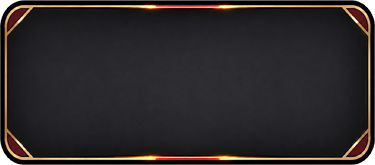
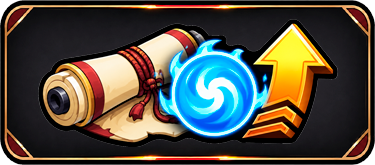
New assets

diff --git a/docs/ASSET_FOLDERS.md b/docs/ASSET_FOLDERS.md
@@ -338,20 +338,6 @@ Only BossTimerLabel is affected. Other ProgressInfoPanel labels use the standard
 
 ---
 
-## Bottom bar background
-
-Path: `assets/images/ui/bottom_bar/background.png`
-
-Recommended size: **720×104**
-
-Purpose: Decorative background for the BottomBar area. Rendered by `BackgroundImageHolder` (a `ColorRect` + `ImageSlot`) placed behind the tab buttons in `ClickerScreen.tscn`.
-
-Rules:
-- Missing file falls back to transparent — no crash.
-- `mouse_filter = IGNORE` — does not block button input.
-
----
-
 ## Bottom tab button images
 
 Path: `assets/images/ui/bottom_bar/tabs/<tab_name>/default.png` and `active.png`
@@ -366,14 +352,14 @@ Tab names: `upgrades`, `partners`, `settlement`, `prestige`, `shop`
 Recommended size: **125×55 px** per tab button.
 
 Rules:
+- BottomBar has no background texture — only tab button textures are used.
 - Button images may include baked-in text/art; Godot no longer draws native button text on the bottom bar.
-- Missing files fall back to transparent — no crash.
+- Missing files fall back to white — no crash.
 - Switching tabs updates images immediately via `_update_bottom_bar_view()`.
 - Closing a sheet returns all tabs to `default.png`.
 
 Required folders:
 ```
-assets/images/ui/bottom_bar/
 assets/images/ui/bottom_bar/tabs/upgrades/
 assets/images/ui/bottom_bar/tabs/partners/
 assets/images/ui/bottom_bar/tabs/settlement/

diff --git a/docs/ASSET_MAP.md b/docs/ASSET_MAP.md
@@ -249,14 +249,6 @@ Rules:
 
 ---
 
-## Bottom bar background
-
-Asset key: `ui.bottom_bar.background`
-Path: `assets/images/ui/bottom_bar/background.png`
-Recommended size: **720×104**
-
-Purpose: Decorative background behind the five bottom tab buttons. Rendered by `BackgroundImageHolder` (`ImageSlot`) in `ClickerScreen.tscn`, pinned to the bottom with `offset_top = -104`. Missing file falls back to transparent — no crash.
-
 ## Bottom tab buttons
 
 Each tab has two image states: `default` and `active`.
@@ -274,7 +266,7 @@ Each tab has two image states: `default` and `active`.
 | `ui.bottom_tab.shop.default` | `assets/images/ui/bottom_bar/tabs/shop/default.png` |
 | `ui.bottom_tab.shop.active` | `assets/images/ui/bottom_bar/tabs/shop/active.png` |
 
-Recommended tab image size: **125×55 px**. Button nodes remain (`Button` type) so pressed signals continue to work. `ImageHolder` (`ImageSlot`) is visual only — mouse input passes through to the button. Godot no longer draws native text on these buttons.
+Recommended tab image size: **125×55 px**. BottomBar has no background texture. Button nodes remain (`Button` type) so pressed signals continue to work. `ImageHolder` (`ImageSlot`) is visual only — mouse input passes through to the button. Missing tab textures fall back to white. Godot no longer draws native text on these buttons.
 
 ---
 